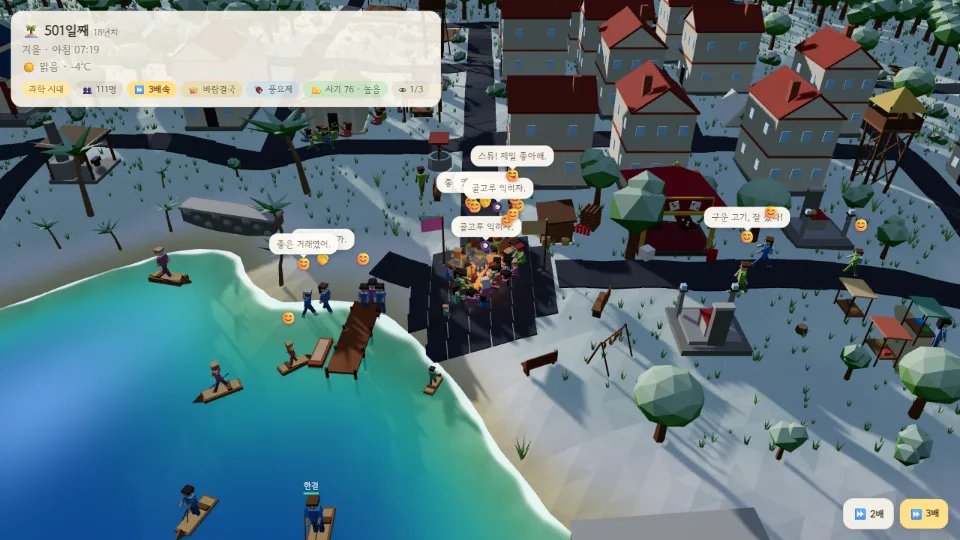
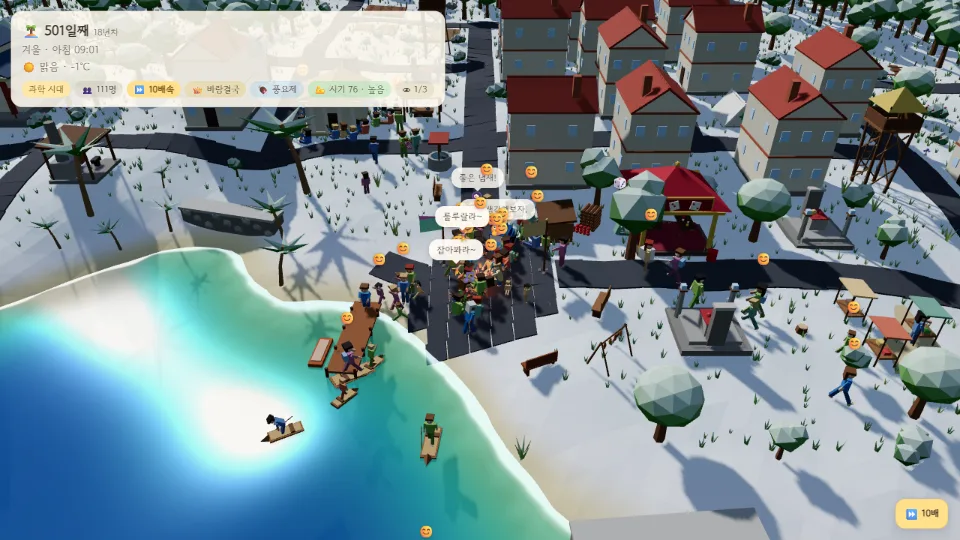
Replace the 2x and 3x buttons with a single hold-to-run-10x button
Holding the one fast-forward button now runs the island ten times as
fast (a game day in two real minutes) for everyone watching. The sim
still steps 36 game seconds at a time, so walking, collisions and beast
balance behave as before.

At ten times the speed the world changes ten times as often, which made
the scene re-render so often that a 111-person island dropped to about
43 fps. Scene parts now wait longer between re-renders while the island
is sped up, keeping it near 51 fps.

diff --git a/src/components/hud/Hud.tsx b/src/components/hud/Hud.tsx
@@ -6,7 +6,7 @@ import type { Credits } from "@/sim/ending";
 import type { ChronicleEntry } from "@/sim/types";
 import type { GameRuntime } from "@/game/runtime";
 import type { Ambience } from "@/game/audio";
-import { GROUP_POP, MAX_VIEWERS } from "@/sim/constants";
+import { FAST_SPEED, GROUP_POP, MAX_VIEWERS } from "@/sim/constants";
 import { HELP } from "./helpData";
 import { ERAS, TECHS } from "@/sim/data";
 import { moraleLabel } from "@/sim/morale";
@@ -56,7 +56,7 @@ export function Hud({ rt, amb, onExit }: { rt: GameRuntime; amb: Ambience; onExi
           <Drawer />
           <Toasts />
           <Hint />
-          <SpeedButtons rt={rt} />
+          <SpeedButton rt={rt} />
           <EndingBanner />
           <Away />
           <CreditsModal rt={rt} />
@@ -778,14 +778,14 @@ function Hint() {
   );
 }
 
-/** 누르고 있는 동안만 2배 · 3배로 빠르게 흐른다 (함께 보는 사람 모두에게) */
-function SpeedButtons({ rt }: { rt: GameRuntime }) {
+/** 누르고 있는 동안만 10배로 빠르게 흐른다 (함께 보는 사람 모두에게) */
+function SpeedButton({ rt }: { rt: GameRuntime }) {
   const speed = useHud((s) => s.speed);
-  const [held, setHeld] = useState(0);
+  const [held, setHeld] = useState(false);
   useEffect(() => {
     if (!held) return;
     const up = () => {
-      setHeld(0);
+      setHeld(false);
       rt.holdSpeed(1);
     };
     window.addEventListener("pointerup", up);
@@ -797,33 +797,30 @@ function SpeedButtons({ rt }: { rt: GameRuntime }) {
       window.removeEventListener("blur", up);
     };
   }, [held, rt]);
-  const press = (n: number) => {
-    setHeld(n);
-    rt.holdSpeed(n);
+  const press = () => {
+    setHeld(true);
+    rt.holdSpeed(FAST_SPEED);
   };
   return (
-    <div className="speed" role="group" aria-label="배속">
-      {[2, 3].map((n) => (
-        <button
-          key={n}
-          className={held === n || (!held && speed === n) ? "on" : ""}
-          onPointerDown={(e) => {
-            e.preventDefault();
-            press(n);
-          }}
-          onKeyDown={(e) => (e.key === " " || e.key === "Enter") && !e.repeat && press(n)}
-          onKeyUp={(e) => {
-            if (e.key !== " " && e.key !== "Enter") return;
-            setHeld(0);
-            rt.holdSpeed(1);
-          }}
-          onContextMenu={(e) => e.preventDefault()}
-          title={`누르고 있는 동안 ${n}배속`}
-          aria-pressed={held === n}
-        >
-          ⏩<b>{n}배</b>
-        </button>
-      ))}
+    <div className="speed">
+      <button
+        className={held || speed > 1 ? "on" : ""}
+        onPointerDown={(e) => {
+          e.preventDefault();
+          press();
+        }}
+        onKeyDown={(e) => (e.key === " " || e.key === "Enter") && !e.repeat && press()}
+        onKeyUp={(e) => {
+          if (e.key !== " " && e.key !== "Enter") return;
+          setHeld(false);
+          rt.holdSpeed(1);
+        }}
+        onContextMenu={(e) => e.preventDefault()}
+        title={`누르고 있는 동안 ${FAST_SPEED}배속`}
+        aria-pressed={held}
+      >
+        ⏩<b>{FAST_SPEED}배</b>
+      </button>
     </div>
   );
 }

diff --git a/src/components/hud/helpData.ts b/src/components/hud/helpData.ts
@@ -52,7 +52,7 @@ export const HELP: HelpCat[] = [
     name: "섬",
     items: [
       { id: "time", icon: "⏳", title: "시간", body: "섬의 하루는 현실 20분이에요. 창을 닫아도 시간은 흐르고, 다시 오면 그동안의 일을 알려 줘요." },
-      { id: "speed", icon: "⏩", title: "배속", body: "오른쪽 아래 ⏩2배 · ⏩3배 버튼을 누르고 있는 동안 섬의 시간이 두 배, 세 배로 흘러요. 손을 떼면 원래 빠르기로 돌아오고, 함께 보는 사람 모두에게 똑같이 빨라져요.", touch: "오른쪽 위 ⏩2배 · ⏩3배 버튼을 누르고 있는 동안 섬의 시간이 두 배, 세 배로 흘러요. 손을 떼면 원래 빠르기로 돌아와요." },
+      { id: "speed", icon: "⏩", title: "배속", body: "오른쪽 아래 ⏩10배 버튼을 누르고 있는 동안 섬의 시간이 열 배로 흘러요(게임 하루가 2분). 손을 떼면 원래 빠르기로 돌아오고, 함께 보는 사람 모두에게 똑같이 빨라져요.", touch: "오른쪽 위 ⏩10배 버튼을 누르고 있는 동안 섬의 시간이 열 배로 흘러요(게임 하루가 2분). 손을 떼면 원래 빠르기로 돌아와요." },
       { id: "veins", icon: "⛏", title: "광맥", body: "바깥쪽 바위 언덕에서 철·구리·주석을 캐요. 은·금·다이아몬드는 아주 드물어요." },
       { id: "beast", icon: "🐺", title: "맹수", body: "가끔 맹수가 사람을 노려요. 물리면 다치고 목숨을 잃기도 해요. 섬 사람이 많을수록 강한 놈이 여럿 오지만, 한 번에 해칠 수 있는 사람 수가 정해져 있어 마을을 몰살하지는 않아요." },
       { id: "dragon", icon: "🐉", title: "용", body: "마지막 맹수예요. 하늘을 날며 불을 뿜어 건물에 불을 붙여요. 날고 있을 때는 칼과 창이 닿지 않아 활·총·망루로 쏘아야 해요." },

diff --git a/src/game/runtime.ts b/src/game/runtime.ts
@@ -1,7 +1,7 @@
 // 브라우저 쪽 게임 런타임: 시뮬레이션 루프, 호스트 선출, 동기화, 저장.
 import { actLabel } from "@/sim/ai";
 import { ageYears, clockLabel, dayOf, seasonOf, SEASONS, timeOfDayLabel, yearOf } from "@/sim/clock";
-import { MAX_VIEWERS, SCHEMA_VERSION, SIM_TICK_MS, TIME_SCALE } from "@/sim/constants";
+import { FAST_SPEED, MAX_VIEWERS, SCHEMA_VERSION, SIM_TICK_MS, TIME_SCALE } from "@/sim/constants";
 import { ERAS, RES_NAME, ROLE_ICON, ROLE_NAME, STRUCTS, TECH_BY_ID, WOODEN } from "@/sim/data";
 import { active, beastName, TOWER, towerRange } from "@/sim/beasts";
 import { floorsOf, hpOf, maxHp, purposeOf } from "@/sim/building";
@@ -558,7 +558,7 @@ export class GameRuntime {
       if (from === this.viewerId) this.transport.send("speed", { mul });
       return;
     }
-    if (mul > 1) this.speedReq.set(from, { mul: Math.min(3, mul), until: performance.now() + 2500 });
+    if (mul > 1) this.speedReq.set(from, { mul: Math.min(FAST_SPEED, mul), until: performance.now() + 2500 });
     else this.speedReq.delete(from);
   }
 

diff --git a/src/components/game/context.ts b/src/components/game/context.ts
@@ -18,7 +18,7 @@ export function useRuntime() {
 
 export const useAmbience = () => useContext(AudioContext3D);
 
-/** 런타임의 구조 버전이 바뀔 때만 다시 렌더링 */
+/** 런타임의 구조 버전이 바뀔 때만 다시 렌더링 (배속 중에는 바뀌는 일이 그만큼 잦아지니 그만큼 뜸하게) */
 export function useWorldVersion(throttleMs = 0) {
   const rt = useRuntime();
   const [v, setV] = useState(rt.version);
@@ -26,7 +26,7 @@ export function useWorldVersion(throttleMs = 0) {
   useFrame(() => {
     if (rt.version !== v) {
       const now = performance.now();
-      if (now - last.current >= throttleMs) {
+      if (now - last.current >= throttleMs * (rt.world?.spd ?? 1)) {
         last.current = now;
         setV(rt.version);
       }

diff --git a/src/sim/constants.ts b/src/sim/constants.ts
@@ -9,6 +9,8 @@ export const YEAR = DAY * DAYS_PER_SEASON * 4;
 /** 호스트가 실시간으로 시뮬레이션을 돌리는 주기(현실 ms). */
 export const SIM_TICK_MS = 100;
 export const MAX_VIEWERS = 3;
+/** 배속 버튼을 누르고 있는 동안의 빠르기 */
+export const FAST_SPEED = 10;
 
 /** 지형: 처음 섬(CORE_RADIUS)은 그대로 두고 바깥으로 넓혀 넓이를 두 배로 만들었다 */
 export const WORLD_SIZE = 320;

diff --git a/README.md b/README.md
@@ -24,7 +24,7 @@
 | 건물 빠르게 3번 | **두드리기** — 내구도가 40 깎임. 0이 되면 무너지고, 사람이 다치거나 중요한 건물일수록 사기가 크게 꺾임 |
 | 맹수 클릭 | 잠깐 휘청거림 (센 놈일수록 금방 정신을 차림) |
 | 빈 곳 드래그 · 우클릭(Shift) 드래그 · 휠 | 시점 회전 · 이동 · 확대 (WASD/QE 키도 가능) |
-| ⏩2배 · ⏩3배 버튼 누르고 있기 | **배속** — 누르고 있는 동안만 섬의 시간이 2배 · 3배로 흐름. 손을 떼면 원래대로. 함께 보는 사람 모두에게 똑같이 빨라짐 (모바일은 오른쪽 위 ☰ 아래) |
+| ⏩10배 버튼 누르고 있기 | **배속** — 누르고 있는 동안만 섬의 시간이 10배로 흐름(게임 하루 = 현실 2분). 손을 떼면 원래대로. 함께 보는 사람 모두에게 똑같이 빨라짐 (모바일은 오른쪽 위 ☰ 아래) |
 
 사람이 10명을 넘고 무리가 생기면 왼쪽 목록(모바일은 ☰ → 사람들)은 무리 단위로 묶여 보이고, 무리를 누르면 구성원이 펼쳐집니다. **👥 사람들 패널**은 **사람 · 나라 · 창고** 세 칸으로 나뉘어 한 번에 하나만 보이고, 나라 칸은 나라 · 종교 · 살림 · 도박장을 한 줄씩만 보여 줍니다 (자세한 숫자는 마우스를 올리면). 얼마 전 떠난 사람은 접어 두었다가 눌러서 펼칩니다.
 
@@ -109,7 +109,7 @@ src/server/       저장소 (Supabase 또는 로컬 파일)
 
 - **호스트 권한 방식**: 같은 섬을 보는 관찰자 중 가장 먼저 들어온 사람의 브라우저가 시뮬레이션을 돌리고(호스트), 다른 관찰자에게 상태를 방송합니다. 다른 관찰자의 클릭·드래그는 호스트에게 전달됩니다. 호스트가 나가면 다음 사람이 이어받습니다.
 - **저장**: 호스트가 15초마다(그리고 창을 숨길 때) 상태를 gzip으로 `/api/world/save`에 보냅니다. 창을 닫을 때 보내는 저장이 60KB를 넘지 않도록 말풍선은 빼고, 욕구는 정수로, 식물 · 바위 · 짐승 자리는 10cm 단위로 줄이고, 사람마다 가족 말고는 가장 가까운 24명과의 정만 기억합니다 (110명 섬에서 약 58KB). 새로 시작하면 지난 문명의 시간을 이어 세어 서버가 시간을 거꾸로 가는 저장으로 여기지 않게 합니다.
-- **배속**: 누르고 있는 관찰자의 브라우저가 1초마다 호스트에게 알리고, 호스트는 그중 가장 큰 배속으로 시간을 돌립니다. 알림이 2.5초 넘게 끊기면(손을 떼는 신호를 놓쳐도) 원래 빠르기로 돌아옵니다.
+- **배속**: 누르고 있는 관찰자의 브라우저가 1초마다 호스트에게 알리고, 호스트는 시간을 10배로 돌립니다 (현실 0.1초마다 게임 36초씩 두 번 — 한 번에 돌리는 시간은 1배속과 같아 걷기 · 부딪힘 · 맹수 균형이 그대로입니다). 알림이 2.5초 넘게 끊기면(손을 떼는 신호를 놓쳐도) 원래 빠르기로 돌아옵니다.
 - **인원 제한**: 서버가 하트비트로 관찰자를 세어 4번째 입장을 막고, Realtime Presence로 한 번 더 확인합니다.
 
 ## 로컬 실행
